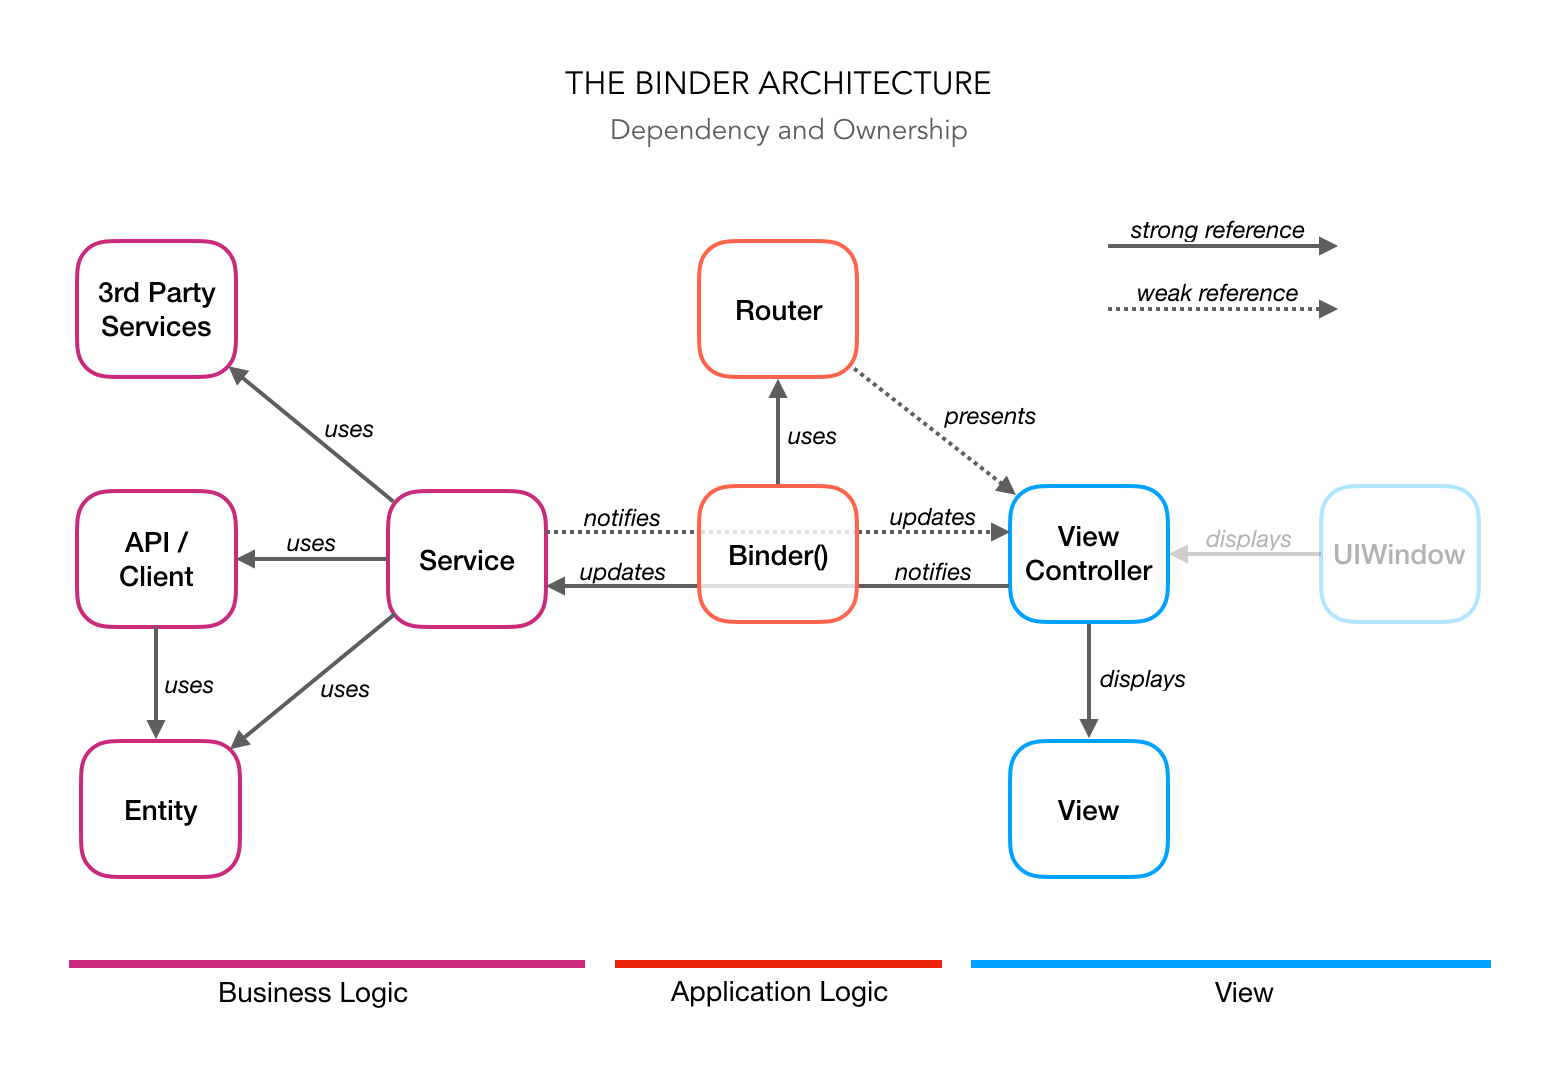
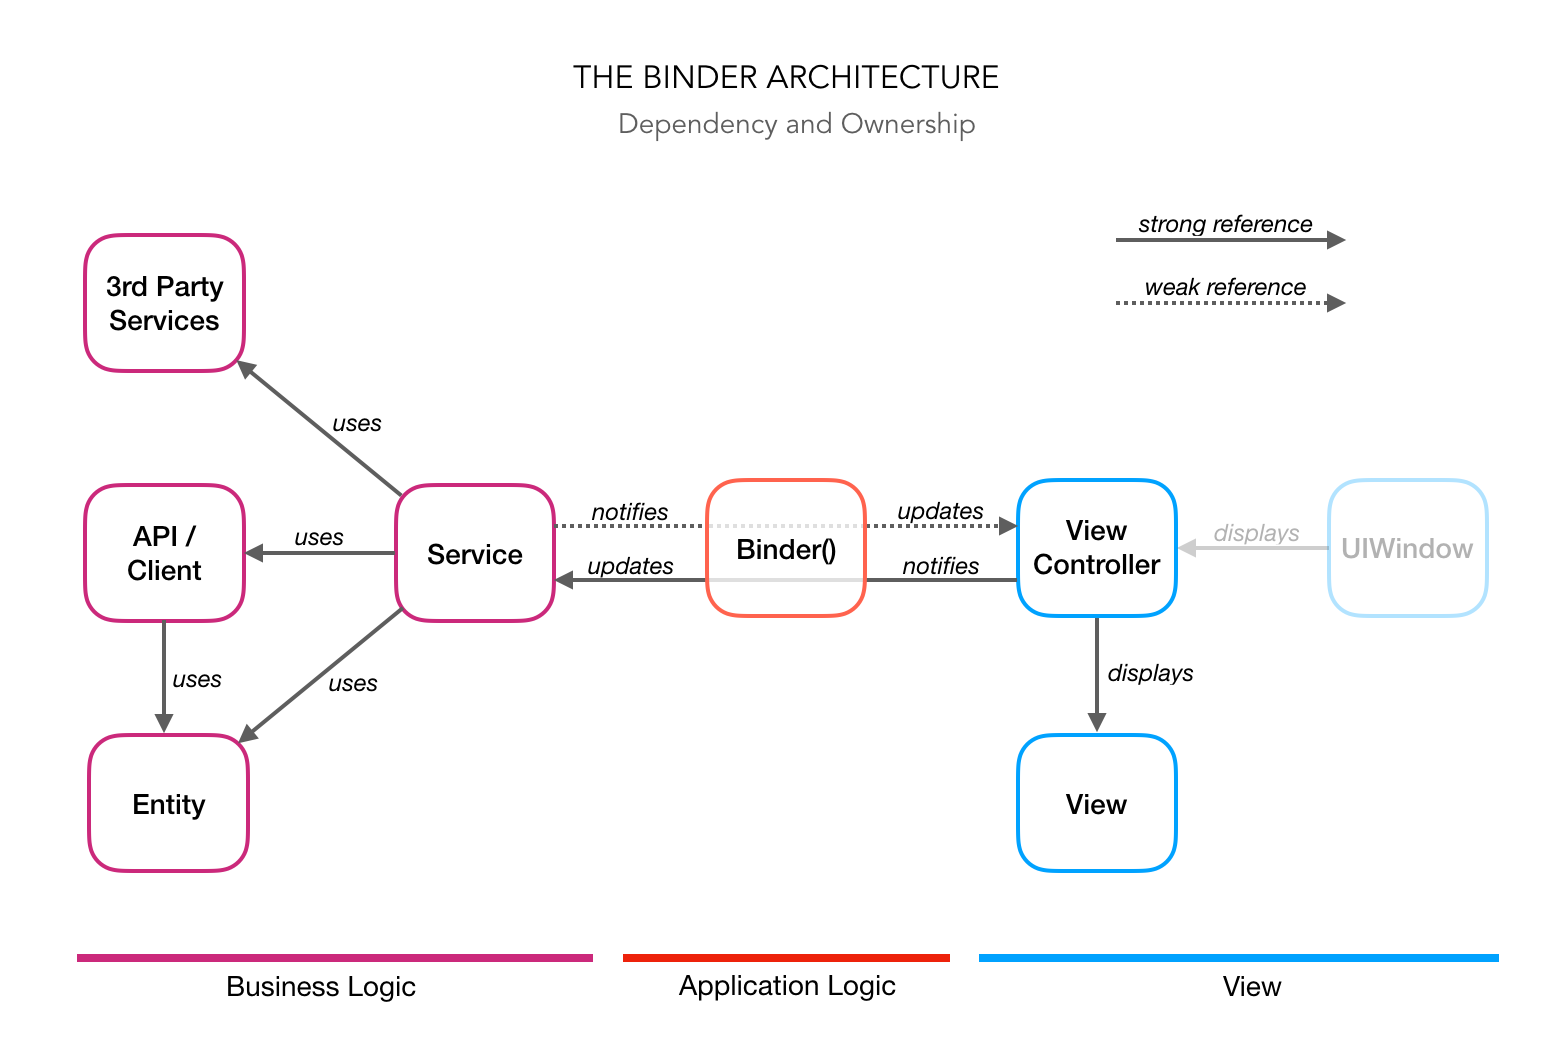
Simplify routing

diff --git a/README.md b/README.md
@@ -200,8 +200,6 @@ The answer to the second questions should already be known to those familiar wit
 
 Binders both implement the application logic and create view controllers. Does that mean that they should also implement the navigation? The answer is yes, however, there is a couple of ways to do it.
 
-### Basic Case
-
 Let us say that our `ProfileViewController` has a button that should open a view controller where the user can edit their profile. We can implement such navigation in the following way:
 
 ```swift
@@ -221,7 +219,7 @@ extension ProfileViewController {
 
 We observe button tap evens with a binding and present the new view controller when the event occurs. Simple.
 
-#### Dependency Piramid of Doom
+#### Dependency Piramid Problem
 
 `EditProfileViewController` has the same dependency as `ProfileViewController` - `UserService`. However, what if that was not the case? What if the view controller that we are about to present has some other dependency unknown to `ProfileViewController`? Let us consider something like the navigation to a friend list that depends on an arbitrary `FriendsService`. Following the same approach
 
@@ -241,162 +239,53 @@ extension ProfileViewController {
 }
 ```
 
-we would end up in a big trouble. Where do we get `friendService` from? Passing it to binder (to the `makeViewController`) is a bad idea. `ProfileViewController` does not use it so it would be redundant. The approach would also not scale well. We would have to pass in dependencies for all the navigation paths that we can take and for all the navigation paths that we can take from every previous navigation path and so on. Basically, a binder would have to take in all dependencies used by every view controller in the navigation graph that starts at the binder.  
+we would end up in a trouble. Where do we get `friendService` from? Passing it to binder (to the `makeViewController`) is a bad idea. `ProfileViewController` does not use it so it would be redundant. Could we just make `FriendsService` a singleton? No, singletons are out of the question!
 
-Would it be easier to just make `FriendsService` a singleton? No, singletons are out of the question!
+This is a classic dependency injection problem. A dependency injection framework could help, but that would not be fun. We can actually solve this ourselves.
 
-This is a classic dependency injection problem. A dependency injection framework could help, but that would not be fun. We can actually solve this ourselves in a clean way.
+A basic solution would be to make services create another services. For example, our `UserService` could have a method `makeFriendsService()` that creates and returns a `FriendService`. This would be a fine solution for a simple app or for a related services (for example if they are in a parent-child relationship), but in the more complex projects we would end with many services being able to create many other unrelated services.
 
-### General Case
-
-Consider the following navigation graph of an imaginary app. It represents an app that has a tab bar controller as a root view controller. The tab bar controller has two tabs. Each tab is a navigation stack that can push three different view controllers. 
-
-<img src="Assets/navigation-graph@2x.png" width="610px">
-
-A user can, for example, navigate from A purple to C purple and then to B purple. They cannot navigation from A purple to B purple.
-
-We can partition the navigation graph into subgraphs. A natural way to do it would be based on the container view controllers like tab bar controller, navigation controller, split controller, etc. There could be other ways to partition the graph though. In our example, first tab's navigation stack would represent one subgraph (blue), while second tab's navigation stack would represent another subgraph (purple).
-
-Each subgraph will have a root view controller. In our example, those would be the two navigation controllers representing blue and purple subgraphs and a tab bar controller representing the whole graph.
-
-A way to solve the dependency pyramid of doom is to let each subgraph's root view controller handle the navigation for the subgraph it defines. View controllers in the subgraph would delegate their navigation to the subgraph's root view controller which would, in turn, resolve the dependencies. Root view controllers themselves would depend on a top-level dependency, e.g. a session, that provides other dependencies.
-
-How do we delegate navigation to the subgraph root view controller? There is a number of ways we could do that, but here is one: expose navigations paths, routes, as a signal and have the binder return both the view controller and the routes signal. We can do that with a publish subject, but let us wrap it into something nicer.
+A general solution is to have a dependency provider and pass that to the binders. A dependency provider is just a top level service (the peek of our pyramid) like a session object or another object that owns or makes dependencies. Here is an example:
 
 ```swift
-public class Router<Route> {
-
-    private let _routes = SafePublishSubject<Route>()
-
-    /// Emits a route when requested by the view controller that is using the router.
-    public var routes: SafeSignal<Route> {
-        return _routes.toSignal()
-    }
-
-    public init() {}
-
-    /// Navigate to the given route.
-    public func navigate(to route: Route) {
-        _routes.next(route)
-    }
+class Session {
+    
+    // Session usually owns the client as it know about authentication
+    let client: APIClient
+    
+    // Session can own services that are alive as long as the app is alive
+    let currentUserService: UserService
+    ...
+    
+    // Session can create other services when needed
+    func makeFriendsService(for user: User) -> FriendsService 
+    ...
 }
 ```
 
-The binder can then instantiate the router and return it alongside the view controller. We can also define a container object for the two instead of returning the tuple. Let us call it `Wireframe`.
-
-```swift
-/// Wireframe is just an object that contains a view controller and a router.
-public class Wireframe<ViewController, Routes> {
-
-    public let viewController: ViewController
-    public let router: Router<Routes>
-
-    public init(for viewController: ViewController, router: Router<Routes>) {
-        self.viewController = viewController
-        self.router = router
-    }
-}
-```
-
-With those two defined we can now refactor our example binder.
+We can then refactor our example to use the `Session` object.
 
 ```swift
 extension ProfileViewController {
 
-    // Routes define all navigations paths that can be taken from this VC
-    enum Routes {
-        case editProfile
-        case friends(ofUser: User)
-    }
-
-    // We've renamed our binder accordingly
-    static func makeWireframe(_ userService: UserService) -> Wireframe<ProfileViewController, Routes> {
-        let viewController = ProfileViewController()
-        let router = Router<Routes>()
+    static func makeViewController(_ session: Session) -> ProfileViewController {
+        let userService = session.currentUserService
         
         ...
         
-        viewController.editProfileButton.reactive.tap
-            .bind(to: viewController) { _ in 
-                router.navigate(to: .editProfile)
-            }
-            
         viewController.friendsButton.reactive.tap
-            .bind(to: viewController) { _ in 
-                router.navigate(to: .friends(ofUser: userService.user)
+            .bind(to: viewController) { viewController in 
+                let friendsViewController = FriendsViewController.makeViewController(user: userService.user, session: session)
+                viewController.navigationController?.pushViewController(friendsViewController, animated: true)
             }
-        
-        return Wireframe(for: viewController, router: router)
-    }
-}
-``` 
-
-Binder now does not present other view controllers, it just triggers the navigation by calling `navigate(to:)` on the router. What is left is to actually perform the navigation. That will be done in the binder of the navigation subgraph's root view controller. Let us assume that our `ProfileViewController` is part of a navigation stack managed by `UINavigationController`. We would implement its binder like this:
-
-```swift
-/// Subclassing gives us the type for our navigation stack...
-class UserNavigationController: UINavigationController {}
-
-/// ...so that we can create a binder only for the specific navigation controller, not for all UINavigationControllers
-extension UserNavigationController {
-
-    static func makeWireframe(_ session: Session) -> Wireframe<UserNavigationController, Void> {
-
-        // ProfileViewController will be our navigation controller's root view controller 
-        let profileWireframe = ProfileViewController.makeWireframe(session.userService)
-        let navigationController = UserNavigationController(rootViewController: profileWireframe.viewController)
-
-        // Handle all routes from ProfileViewController:
-        profileWireframe.router.routes.bind(to: navigationController) { navigationController, route in
-            switch route {
-            case .editProfile:
-                navigationController.presentEditProfileViewController(session: session)
-            case .friends(let user):
-                navigationController.pushFriendsViewController(ofUser: user, session: session)
-            }
-        }
-
-        return Wireframe(for: navigationController)
-    }
-
-    /// Routes can be implemented as method extensions on the view controller.
-    func presentEditProfileViewController(session: Session) {
-        let wireframe = EditProfileViewController.makeWireframe(session.userService)
-
-        // Handle all routes from EditProfileViewController, if any.
-        wireframe.router.routes.bind(to: self) { navigationController, route in
-            switch route {
-                ...
-            }
-        }
-
-        present(wireframe.viewController, animated: true)
-    }
-
-    // Another routing method
-    func pushFriendsViewController(ofUser user: User, session: Session) {
-        let service = FriendsService(user: user, session: Session)
-        let wireframe = FriendsViewController.makeWireframe(service)
-
-        // Handle all routes from FriendsViewController wireframe, if any.
-        wireframe.router.routes.bind(to: self) { navigationController, route in
-            switch route {
-                ...
-            }
-        }
-
-        pushViewController(wireframe.viewController, animated: true)
+        ...
     }
 }
 ```
 
-The first thing that should be noticed is that we are implementing a binder for the navigation controller. This is a very good approach as it is only natural for the navigation controller to manage its stack. It does that by performing specific routes from its child view controllers.
+`FriendsViewController` binder would then call session's `makeFriendsService` method with the given user to get the service it requires.
 
-Next, notice that this binder has a dependency on something called `Session`. Navigation controllers, as well as other navigation subgraph's root view controllers, should depend on the top-level dependency from which one can get or create other dependencies. Having something like a `Session` object that vends other dependencies is a good approach even for the apps that do not have any concept of a user.
-
-With this approach, child view controllers do not need to have dependencies that they do not use. In our example, `ProfileViewController` does not need `FriendsService` as a dependency. It can just trigger a specific route and the `UserNavigationController`'s binder will resolve the dependency.
-
-Routing and dependency injection is probably the most complex aspect of this architecture, but once you grasp it you will see how simple and logical it is. Be sure to check out the [demo app](https://github.com/DeclarativeHub/AbsurdGitter) for a working example.
+Make sure to check out the [demo app](https://github.com/DeclarativeHub/AbsurdGitter) for a working example.
 
 ## Discussion
 
